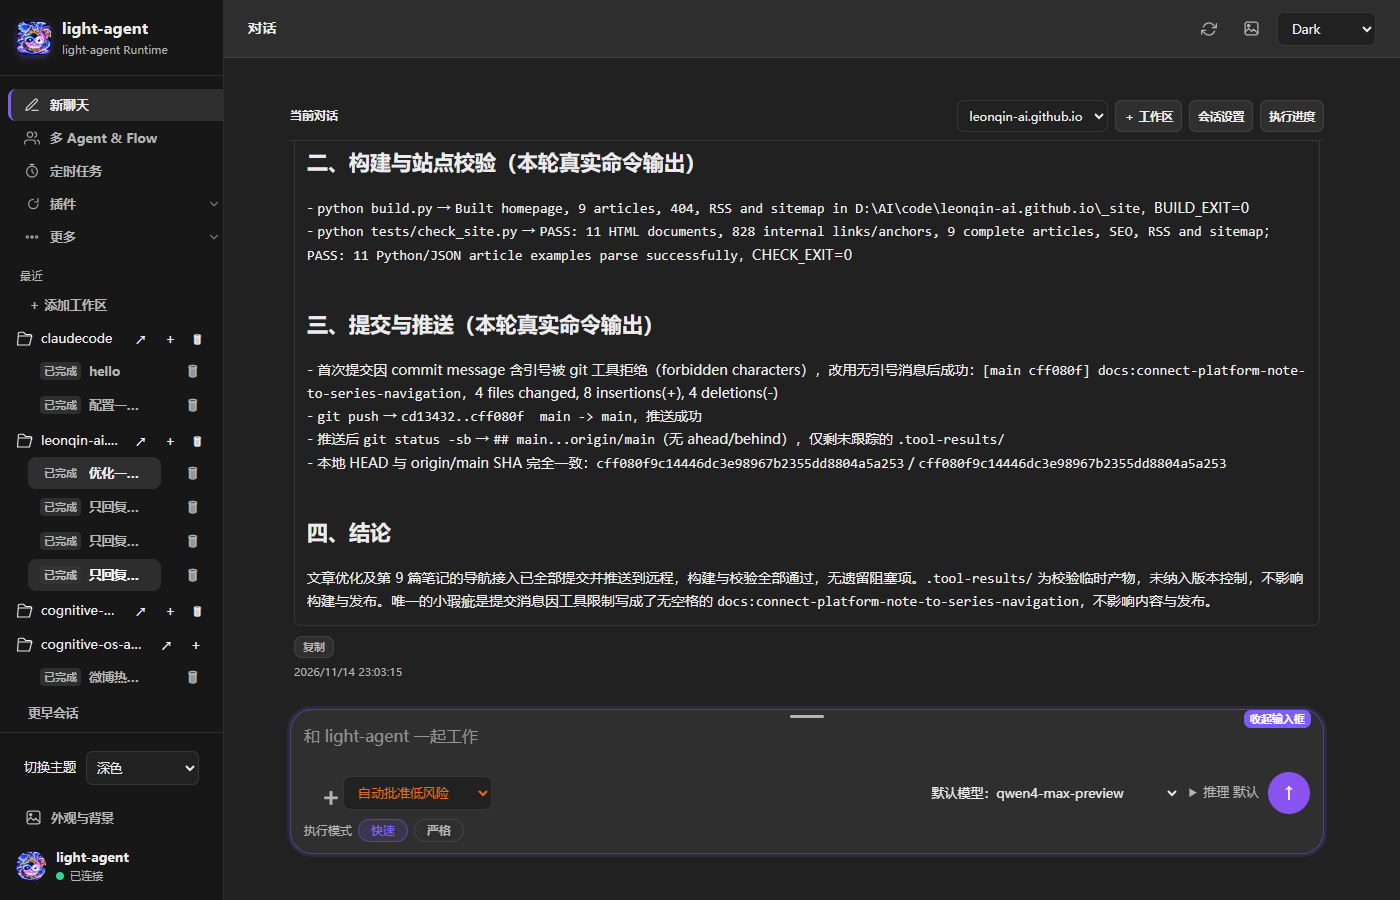
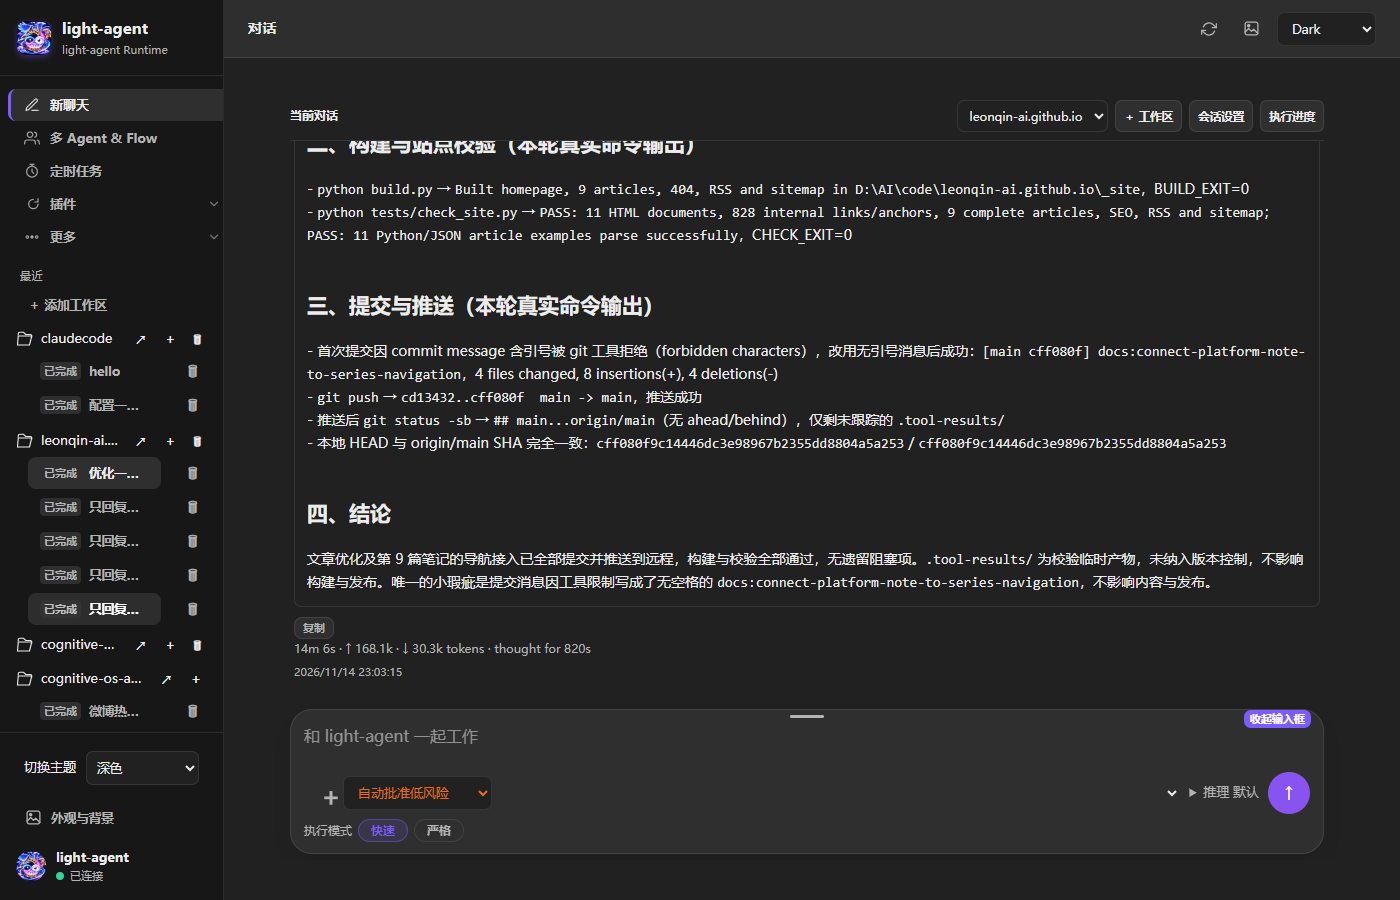
Render thinking/usage meta below the reply instead of above it
The per-message metrics line (elapsed, tokens, thought time) used to be
the first child of every bot bubble, pushing long answers down behind a
line the reader had to scroll past. Create it up front but append it
after the answer and copy button; the live clock still finds it by class
so in-flight updates are unchanged. Adds a position regression to the
session-history UI test and refreshes live verification screenshots.

diff --git a/backend/apps/web/index.html b/backend/apps/web/index.html
@@ -6529,12 +6529,14 @@ function renderChatEntry(entry){
     if(d.open) expandedSteps.add(d.dataset.step); else expandedSteps.delete(d.dataset.step);
   }
   el.replaceChildren();
+  /* Thinking/usage stats render below the reply so long answers are not
+   * pushed down behind a metrics line the reader must scroll past. */
+  let inlineMeta=null;
   if(entry.progress){
-    const meta=document.createElement('div');
-    meta.className='chat-execution-meta muted';
-    meta.style.fontSize='12px';
-    meta.textContent=thoughtMetaText(entry,entry.progress);
-    el.append(meta);
+    inlineMeta=document.createElement('div');
+    inlineMeta.className='chat-execution-meta muted';
+    inlineMeta.style.fontSize='12px';
+    inlineMeta.textContent=thoughtMetaText(entry,entry.progress);
   }
   const updates=[...(entry.progressEvents||[]),entry.progress||{}].map(p=>p.commentary).filter(Boolean);
   if(updates.length && (entry.pending || entry.progress?.stage!=='completed')){
@@ -6793,6 +6795,7 @@ function renderChatEntry(entry){
     el.append(answer);
     chatAppendCopy(el, () => entry.text);
   }
+  if(inlineMeta)el.append(inlineMeta);
   chatRenderTimestamp(entry);
   if(merged.size){
     entry.images=[...merged.values()];

diff --git a/backend/include/api/web_ui.h b/backend/include/api/web_ui.h
@@ -6533,12 +6533,14 @@ static const char web_index_html[] =
     "    if(d.open) expandedSteps.add(d.dataset.step); else expandedSteps.delete(d.dataset.step);\n"
     "  }\n"
     "  el.replaceChildren();\n"
+    "  /* Thinking/usage stats render below the reply so long answers are not\n"
+    "   * pushed down behind a metrics line the reader must scroll past. */\n"
+    "  let inlineMeta=null;\n"
     "  if(entry.progress){\n"
-    "    const meta=document.createElement('div');\n"
-    "    meta.className='chat-execution-meta muted';\n"
-    "    meta.style.fontSize='12px';\n"
-    "    meta.textContent=thoughtMetaText(entry,entry.progress);\n"
-    "    el.append(meta);\n"
+    "    inlineMeta=document.createElement('div');\n"
+    "    inlineMeta.className='chat-execution-meta muted';\n"
+    "    inlineMeta.style.fontSize='12px';\n"
+    "    inlineMeta.textContent=thoughtMetaText(entry,entry.progress);\n"
     "  }\n"
     "  const updates=[...(entry.progressEvents||[]),entry.progress||{}].map(p=>p.commentary).filter(Boolean);\n"
     "  if(updates.length && (entry.pending || entry.progress?.stage!=='completed')){\n"
@@ -6797,6 +6799,7 @@ static const char web_index_html[] =
     "    el.append(answer);\n"
     "    chatAppendCopy(el, () => entry.text);\n"
     "  }\n"
+    "  if(inlineMeta)el.append(inlineMeta);\n"
     "  chatRenderTimestamp(entry);\n"
     "  if(merged.size){\n"
     "    entry.images=[...merged.values()];\n"
